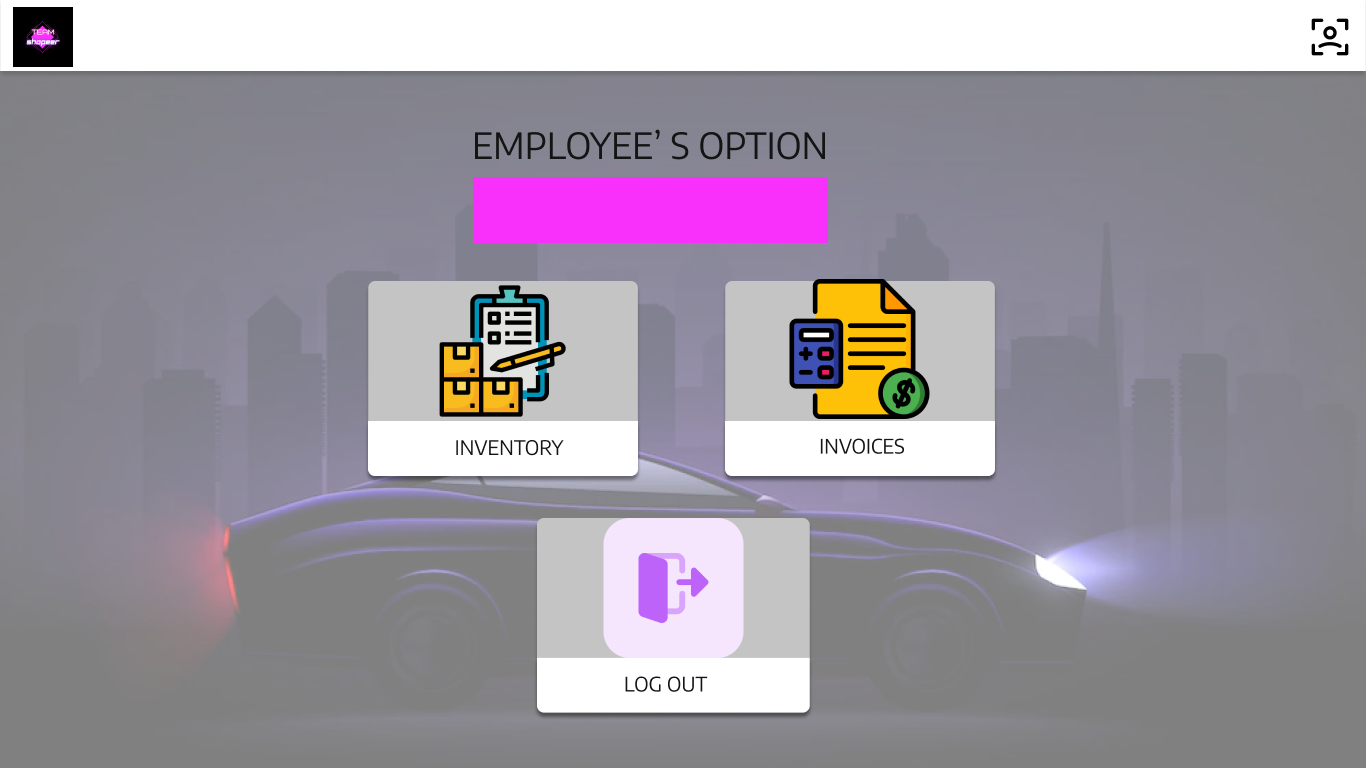
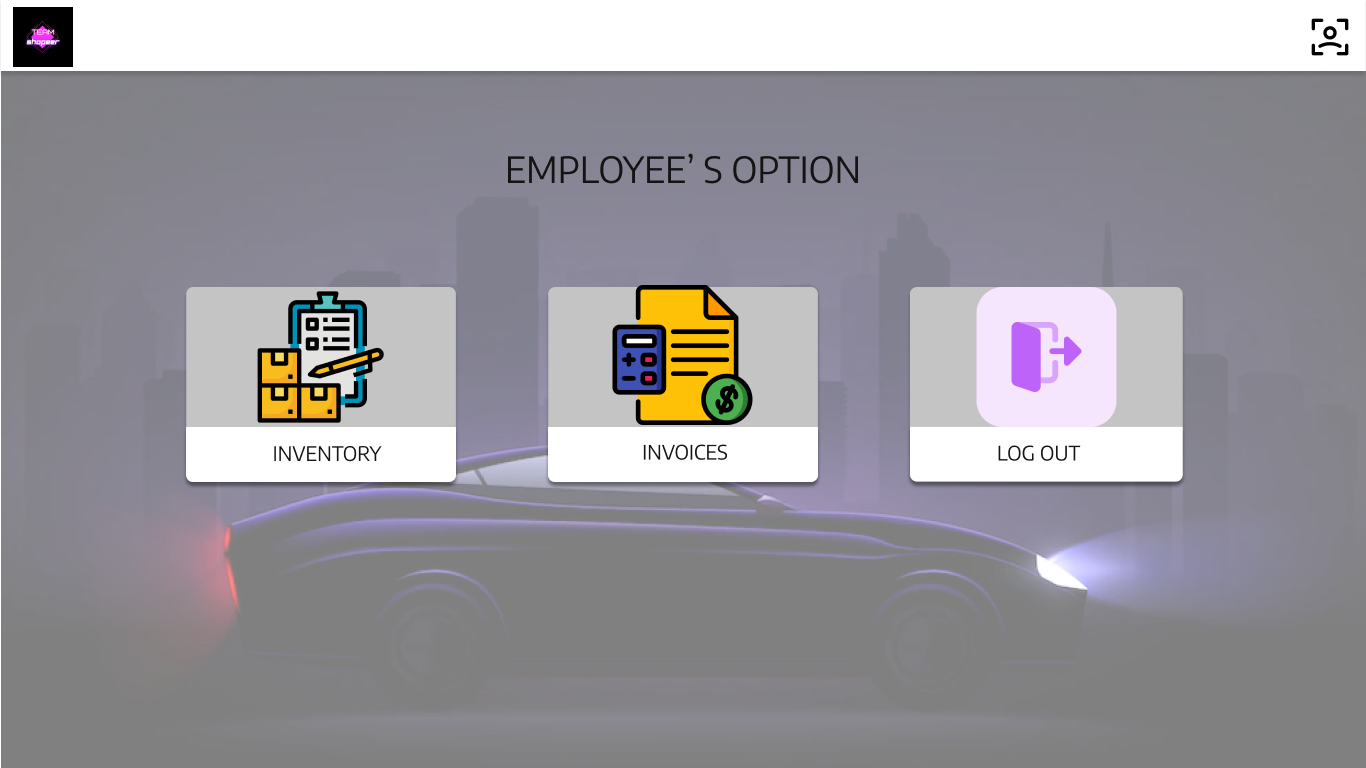
Big Update

Changed region(s): [[0.123, 0.1562, 0.8917, 0.9375]]

diff --git a/View/EmployeeLoginPageView.py b/View/EmployeeLoginPageView.py
@@ -1,11 +1,10 @@
 from tkinter import *
 
 class EmployeeLoginPageView():
-    def __init__(self, root, model):
+    def __init__(self, root):
         root.title("Employee Login")
         root.geometry("1366x768")
         root.resizable(0,  0)
-        self.model = model
 
         self.label = Label(root)
         self.label.place(relx=0, rely=0, width=1366, height=768)
@@ -13,7 +12,7 @@ class EmployeeLoginPageView():
         self.label.configure(image=self.img)
 
         self.button_login = Button(root)
-        self.button_login.place(relx=0.7, rely=0.5, width=204, height=52)
+        self.button_login.place(relx=0.6625, rely=0.725, width=204, height=52)
         self.button_login.configure(relief="flat")
         self.button_login.configure(overrelief="flat")
         self.button_login.configure(activebackground="#ffffff")
@@ -24,14 +23,14 @@ class EmployeeLoginPageView():
         self.button_login.configure(image=self.img_login)
         
         self.entry_username = Entry(root)
-        self.entry_username.place(relx=0.527, rely=0.646, width=374, height=30)
-        self.entry_username.configure(font="-family {Poppins} -size 12")
+        self.entry_username.place(relx=0.62, rely=0.521, width=350, height=30)
+        self.entry_username.configure(font="Itim 18")
         self.entry_username.configure(relief="flat")
-        self.entry_username.focus()
+        self.entry_username.configure(bg="grey")
 
         self.entry_password = Entry(root)
-        self.entry_password.place(relx=0.527, rely=0.846, width=374, height=30)
-        self.entry_password.configure(font="-family {Poppins} -size 12")
+        self.entry_password.place(relx=0.62, rely=0.645, width=350, height=30)
+        self.entry_password.configure(font="Itim 18")
         self.entry_password.configure(relief="flat")
         self.entry_password.configure(show="*")
-        self.entry_password.focus()
+        self.entry_password.configure(bg="grey")

diff --git a/Controller/EmployeeLoginPageController.py b/Controller/EmployeeLoginPageController.py
@@ -2,12 +2,13 @@ from tkinter import *
 from tkinter import messagebox
 from View.EmployeeLoginPageView import *
 from Model.LoginPageModel import *
+from Controller.EmployeeWorkController import *
 
 class EmployeeLoginPageController():
     def __init__(self, root):
         self.root = root
         self.model = EmployeeLoginPageModel()
-        self.view = EmployeeLoginPageView(root, self.model)
+        self.view = EmployeeLoginPageView(root)
         self.view.entry_username.configure(textvariable =self.model.username)
         self.view.entry_password.configure(textvariable =self.model.password)
         self.view.button_login.configure(command = self.login)
@@ -19,6 +20,8 @@ class EmployeeLoginPageController():
             self.view.entry_username.config(textvariable =self.model.username)
             self.view.entry_password.config(textvariable =self.model.password)
             self.root.withdraw()
+            # self.new_root = EmployeeWorkController()
+
 
         else:
             messagebox.showerror("Error","Username or password incorrect")

diff --git a/Controller/AdminLoginPageController.py b/Controller/AdminLoginPageController.py
@@ -20,9 +20,7 @@ class AdminLoginPageController():
             self.view.entry_username.config(textvariable =self.model.username)
             self.view.entry_password.config(textvariable =self.model.password)
             self.root.withdraw()
-            global root 
-            root = AdminWorkController()
-
+            self.new_root = AdminWorkController()
 
         else:
             messagebox.showerror("Error","Username or password incorrect")

diff --git a/Controller/RolePageController.py b/Controller/RolePageController.py
@@ -11,7 +11,7 @@ class RolePageController():
       self.root = Tk()
       # center(self.root)
       self.model = RolePageModel()
-      self.view = RolePageView(self.root, self.model)
+      self.view = RolePageView(self.root)
       self.view.button_admin.configure(command=self.admin)
       self.view.button_employee.configure(command=self.employee)
       self.root.mainloop()

diff --git a/View/AdminLoginPageView.py b/View/AdminLoginPageView.py
@@ -1,11 +1,10 @@
 from tkinter import *
 
 class AdminLoginPageView():
-    def __init__(self, root, model):
+    def __init__(self, root):
         root.title("Admin Login")
         root.geometry("1366x768")
         root.resizable(0,  0)
-        self.model = model
 
         self.label = Label(root)
         self.label.place(relx=0, rely=0, width=1366, height=768)

diff --git a/View/RolePageView.py b/View/RolePageView.py
@@ -1,11 +1,10 @@
 from tkinter import *
 
 class RolePageView():
-    def __init__(self,root,model):
+    def __init__(self,root):
         root.title("G4 Store - Choose Role")
         root.geometry("1366x768")
         root.resizable(0,0)
-        self.model = model
 
         self.label = Label(root)
         self.label.place(relx=0, rely=0, width=1366, height=768)

diff --git a/View/AdminWorkView.py b/View/AdminWorkView.py
@@ -2,8 +2,7 @@ from logging import root
 from tkinter import *
 
 class AdminWorkView():
-    def __init__(self, root, model):
-        self.model = model
+    def __init__(self, root):
         root.title("Admin's Options")
         root.geometry("1366x768")
         root.resizable(0,0)
